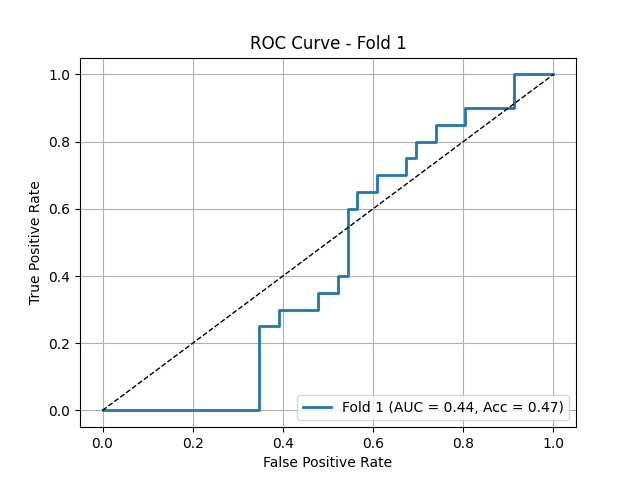
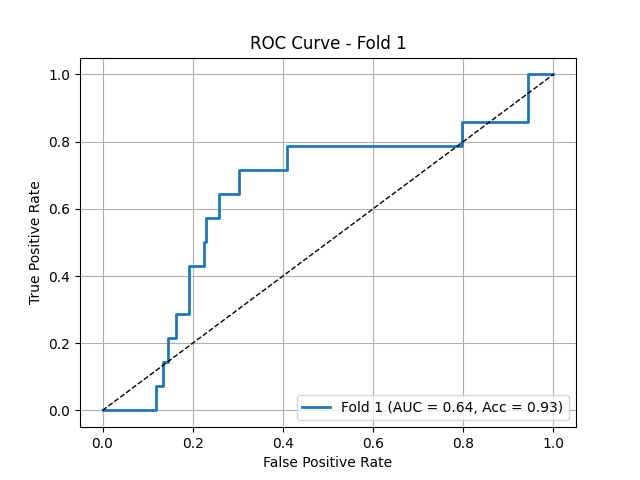
patient less 20 with transformer

diff --git a/dataset_washu2.py b/dataset_washu2.py
@@ -144,7 +144,7 @@ class Classificaiton_Dataset(Dataset):
 		df["PatientSide"] = df.apply(lambda row: f"p{row['Patient ID']}_{row['Side']}", axis=1)
 
 		# === Define test set based on Patient ID < 21 ===
-		df["IsTest"] = df["Patient ID"] >= 130
+		df["IsTest"] = df["Patient ID"] <= 20
 		#df["IsTest"] = df["Patient ID"].between(100, 120)
 		test_case_set = set(df[df["IsTest"]]["PatientSide"].tolist())
 
